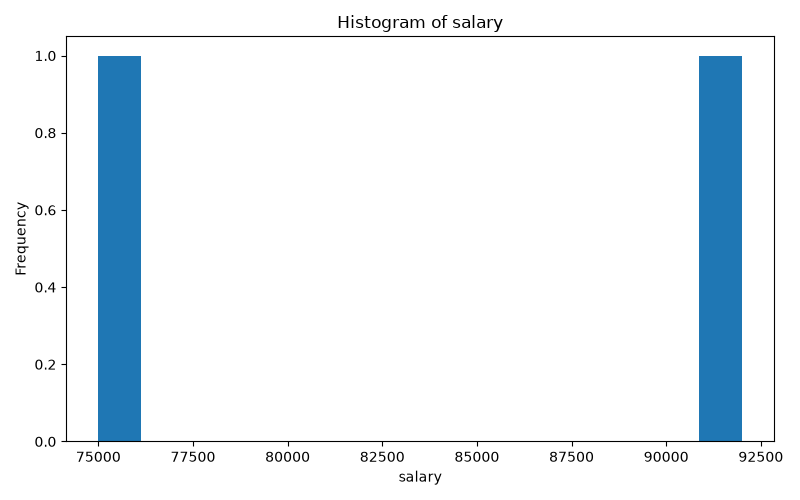
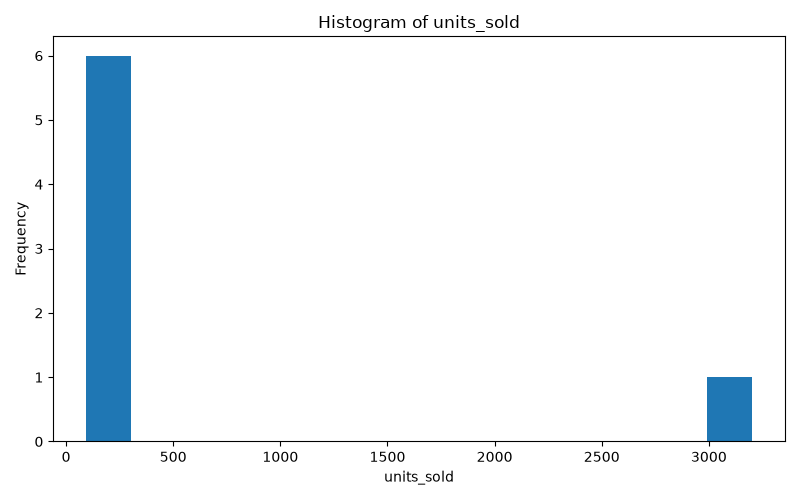
Done: Insight Generation Agent with grounded structured output, fan-in after parallel statistics/visualization, tests

diff --git a/app/nodes/insight_agent.py b/app/nodes/insight_agent.py
@@ -1,0 +1,111 @@
+import os
+import json
+import time
+from langchain_groq import ChatGroq
+from langchain_core.prompts import ChatPromptTemplate
+from dotenv import load_dotenv
+
+from app.schemas.state import GraphState
+from app.schemas.insight import InsightList
+
+load_dotenv()
+
+
+class InsightAgentError(Exception):
+    """Raised when the Insight Agent fails to produce usable insights after retries."""
+    pass
+
+
+INSIGHT_PROMPT = ChatPromptTemplate.from_messages([
+    ("system", (
+        "You are a business data analyst who writes executive-ready insights. "
+        "You will be given the RESULTS of statistical analyses (real numbers) "
+        "and a list of charts that were generated for this dataset.\n\n"
+        "Rules:\n"
+        "- Every insight MUST reference at least one actual number from the data "
+        "(a percentage, an average, a count, a min/max — a real figure, not a vague claim).\n"
+        "- NEVER write generic filler like 'the data shows interesting patterns' or "
+        "'performance was strong' without a specific number attached.\n"
+        "- Write in plain business English — a busy manager with no data background "
+        "should understand every sentence instantly.\n"
+        "- Produce between 3 and 7 insights total, not more.\n"
+        "- Each insight must set 'source_analysis' to the exact analysis name it came from.\n"
+        "- If a statistics result was skipped (has a 'skipped_reason'), do NOT invent an "
+        "insight for it — simply don't write one for that analysis."
+    )),
+    ("human", (
+        "Statistics results:\n{statistics}\n\n"
+        "Charts generated:\n{charts}\n\n"
+        "Write the business insights now."
+    )),
+]) 
+
+
+def _build_chain():
+    llm = ChatGroq(model="llama-3.3-70b-versatile", temperature=0.3)
+    structured_llm = llm.with_structured_output(InsightList)
+    return INSIGHT_PROMPT | structured_llm
+
+
+def insight_agent_node(state: GraphState, max_retries: int = 2) -> GraphState:
+    """
+    LangGraph node (REAL AGENT — LLM-powered).
+    Runs AFTER Statistics and Visualization have both finished (fan-in),
+    since it needs to read both of their results. Turns numbers and
+    chart summaries into grounded, specific business language.
+
+    Retry-with-backoff, same resilience pattern as the Planning Agent (Day 5).
+    """
+    statistics = state.get("statistics")
+    visualizations = state.get("visualizations")
+
+    if not statistics:
+        raise InsightAgentError(
+            "No 'statistics' found in state. Insight Agent must run AFTER the Statistics Node."
+        )
+    if not visualizations:
+        raise InsightAgentError(
+            "No 'visualizations' found in state. Insight Agent must run AFTER the Visualization Node."
+        )
+
+    if not os.getenv("GROQ_API_KEY"):
+        raise InsightAgentError(
+            "GROQ_API_KEY not set. Add it to your .env file before running the Insight Agent."
+        )
+
+    # Build a short, LLM-friendly summary of the charts instead of dumping
+    # full file paths (irrelevant noise for the LLM's reasoning).
+    chart_summaries = [
+        {"chart_type": c["chart_type"], "columns": c["columns"], "reason": c["reason"]}
+        for c in visualizations.get("generated", [])
+    ]
+
+    chain = _build_chain()
+    stats_json = json.dumps(statistics.get("results", {}), indent=2)
+    charts_json = json.dumps(chart_summaries, indent=2)
+
+    last_error = None
+    for attempt in range(1, max_retries + 2):
+        try:
+            result: InsightList = chain.invoke({
+                "statistics": stats_json,
+                "charts": charts_json,
+            })
+            insights_list = [insight.text for insight in result.insights]
+            # Also keep the full structured version (with source_analysis) for
+            # the Critic Agent to inspect later (Day 8).
+            insights_detailed = [insight.model_dump() for insight in result.insights]
+
+            return {
+                "insights": insights_list,
+                "insights_detailed": insights_detailed,
+            }
+        except Exception as e:
+            last_error = e
+            if attempt <= max_retries:
+                time.sleep(1.5 * attempt)
+                continue
+
+    raise InsightAgentError(
+        f"Insight Agent failed after {max_retries + 1} attempts. Last error: {last_error}"
+    )

diff --git a/app/graph.py b/app/graph.py
@@ -16,7 +16,8 @@ from app.nodes.cleaning import clean_data_node
 from app.nodes.profiling import profile_data_node
 from app.nodes.planning_agent import planning_agent_node
 from app.nodes.statistics import statistics_node
-from app.nodes.visualization import visualization_node   # NEW import
+from app.nodes.visualization import visualization_node
+from app.nodes.insight_agent import insight_agent_node   # NEW import
 
 DB_PATH = "checkpoints.sqlite"
 
@@ -30,7 +31,8 @@ def build_graph(db_path: str = DB_PATH, interrupt_after: list[str] | None = None
     graph.add_node("profiling", profile_data_node)
     graph.add_node("planning_agent", planning_agent_node)
     graph.add_node("statistics", statistics_node)
-    graph.add_node("visualization", visualization_node)   # NEW
+    graph.add_node("visualization", visualization_node)
+    graph.add_node("insight_agent", insight_agent_node)   # NEW
 
     graph.set_entry_point("file_loader")
 
@@ -39,15 +41,16 @@ def build_graph(db_path: str = DB_PATH, interrupt_after: list[str] | None = None
     graph.add_edge("cleaning", "profiling")
     graph.add_edge("profiling", "planning_agent")
 
-    # FAN-OUT: planning_agent has TWO outgoing edges now, instead of one.
-    # LangGraph sees this and runs "statistics" and "visualization" IN PARALLEL.
+    # FAN-OUT (from Day 6, unchanged): statistics and visualization run in parallel
     graph.add_edge("planning_agent", "statistics")
     graph.add_edge("planning_agent", "visualization")
 
-    # FAN-IN: both parallel branches point to the SAME next step.
-    # LangGraph automatically WAITS for both to finish before continuing.
-    graph.add_edge("statistics", END)          # temporary until Day 8 (Critic Agent)
-    graph.add_edge("visualization", END)       # temporary until Day 8 (Critic Agent)
+    # FAN-IN: both parallel branches now feed into insight_agent instead of END.
+    # LangGraph waits for BOTH statistics and visualization to finish
+    # before running insight_agent — exactly what we need, since it reads both.
+    graph.add_edge("statistics", "insight_agent")
+    graph.add_edge("visualization", "insight_agent")
+    graph.add_edge("insight_agent", END)   # temporary until Day 8 (Critic Agent)
 
     conn = sqlite3.connect(db_path, check_same_thread=False)
     serde = JsonPlusSerializer(pickle_fallback=True)
@@ -58,7 +61,7 @@ def build_graph(db_path: str = DB_PATH, interrupt_after: list[str] | None = None
 
 if __name__ == "__main__":
     app_graph = build_graph()
-    config = {"configurable": {"thread_id": "demo-run-day6"}}
+    config = {"configurable": {"thread_id": "demo-run-day7"}}
     result = app_graph.invoke(
         {"file_path": "sample_data/timeseries_sample.csv"},
         config=config,
@@ -66,3 +69,6 @@ if __name__ == "__main__":
     print("Plan:", result["plan"])
     print("\nStatistics:", result["statistics"])
     print("\nVisualizations:", result["visualizations"])
+    print("\nInsights:")
+    for insight in result.get("insights", []):
+        print(f"  - {insight}")

diff --git a/tests/test_insight_agent.py b/tests/test_insight_agent.py
@@ -1,0 +1,77 @@
+import os
+import re
+import pytest
+from app.graph import build_graph
+
+requires_api_key = pytest.mark.skipif(
+    not os.getenv("GROQ_API_KEY"),
+    reason="GROQ_API_KEY not set — skipping live LLM tests"
+)
+
+
+@pytest.fixture
+def graph():
+    return build_graph(db_path=":memory:")
+
+
+def _contains_a_number(text: str) -> bool:
+    """Simple check: does this sentence contain at least one digit? Used to
+    verify insights are grounded in real numbers, not generic filler."""
+    return bool(re.search(r"\d", text))
+
+
+@requires_api_key
+def test_insights_are_generated_and_grounded_in_numbers(graph):
+    config = {"configurable": {"thread_id": "test-insight-ts"}}
+    result = graph.invoke(
+        {"file_path": "sample_data/timeseries_sample.csv"},
+        config=config,
+    )
+
+    insights = result["insights"]
+    assert 3 <= len(insights) <= 7
+
+    # EVERY insight should reference a real number — the key requirement for today
+    ungrounded = [i for i in insights if not _contains_a_number(i)]
+    assert not ungrounded, f"Found insights with no numbers (generic filler): {ungrounded}"
+
+
+@requires_api_key
+def test_insights_differ_across_three_different_datasets(graph):
+    """
+    THE key test for today: proves insight quality/content genuinely
+    changes based on what's actually in the data across 3 distinct datasets.
+    """
+    datasets = {
+        "timeseries": "sample_data/timeseries_sample.csv",
+        "categorical": "sample_data/categorical_sample.csv",
+        "outlier": "sample_data/outlier_sample.csv",
+    }
+
+    all_insights = {}
+    for name, path in datasets.items():
+        config = {"configurable": {"thread_id": f"test-insight-{name}"}}
+        result = graph.invoke({"file_path": path}, config=config)
+        all_insights[name] = " ".join(result["insights"]).lower()
+
+    # No two datasets should produce identical insight text —
+    # if they do, the agent isn't actually reasoning about the specific numbers.
+    assert all_insights["timeseries"] != all_insights["categorical"]
+    assert all_insights["timeseries"] != all_insights["outlier"]
+    assert all_insights["categorical"] != all_insights["outlier"]
+
+
+@requires_api_key
+def test_insights_detailed_includes_source_analysis(graph):
+    config = {"configurable": {"thread_id": "test-insight-detailed"}}
+    result = graph.invoke(
+        {"file_path": "sample_data/timeseries_sample.csv"},
+        config=config,
+    )
+
+    detailed = result["insights_detailed"]
+    assert len(detailed) > 0
+    for item in detailed:
+        assert "text" in item
+        assert "source_analysis" in item
+        assert item["source_analysis"] != ""

diff --git a/app/schemas/insight.py b/app/schemas/insight.py
@@ -1,0 +1,32 @@
+from pydantic import BaseModel, Field
+from typing import List
+
+
+class Insight(BaseModel):
+    """
+    ONE business insight, grounded in a specific piece of analysis.
+    source_analysis tells us WHICH statistics result this insight came
+    from — useful later for the Critic Agent (Day 8) to check insights
+    are actually backed by real data, not made up.
+    """
+    text: str = Field(
+        description=(
+            "One clear, specific sentence in plain business language. "
+            "MUST reference at least one actual number from the data "
+            "(a percentage, count, average, etc.) — never generic filler."
+        )
+    )
+    source_analysis: str = Field(
+        description="Which analysis this insight is based on, e.g. 'trend_analysis', 'correlation_analysis'"
+    )
+
+
+class InsightList(BaseModel):
+    """
+    The full structured output of the Insight Generation Agent.
+    A simple wrapper around a list — LangChain's structured output
+    needs one top-level model, not a bare list.
+    """
+    insights: List[Insight] = Field(
+        description="3 to 7 specific, numbers-grounded business insights about this dataset"
+    )

diff --git a/tests/check.py b/tests/check.py
@@ -1,13 +1,14 @@
-import time
 from app.graph import build_graph
 
 g = build_graph(db_path=":memory:")
-start = time.time()
-result = g.invoke(
-    {"file_path": "sample_data/timeseries_sample.csv"},
-    config={"configurable": {"thread_id": "timing-test"}},
-)
-print(f"Total time: {time.time() - start:.2f}s")
-print("Statistics present:", "statistics" in result)
-print("Visualizations present:", "visualizations" in result)
+
+for name, path in [
+    ("TIME SERIES", "sample_data/timeseries_sample.csv"),
+    ("CATEGORICAL", "sample_data/categorical_sample.csv"),
+    ("OUTLIER", "sample_data/outlier_sample.csv"),
+]:
+    result = g.invoke({"file_path": path}, config={"configurable": {"thread_id": f"manual-{name}"}})
+    print(f"\n=== {name} ===")
+    for insight in result["insights"]:
+        print(f"  - {insight}")
 exit()

diff --git a/app/schemas/state.py b/app/schemas/state.py
@@ -33,6 +33,7 @@ class GraphState(TypedDict, total=False):
 
     # --- Day 7: Insight Generation Agent ---
     insights: List[str]
+    insights_detailed: List[dict]   # NEW — full insight objects with source_analysis
 
     # --- Day 8: Critic Agent + reflection loop ---
     critic_feedback: dict       # {"approved": bool, "reason": str}
